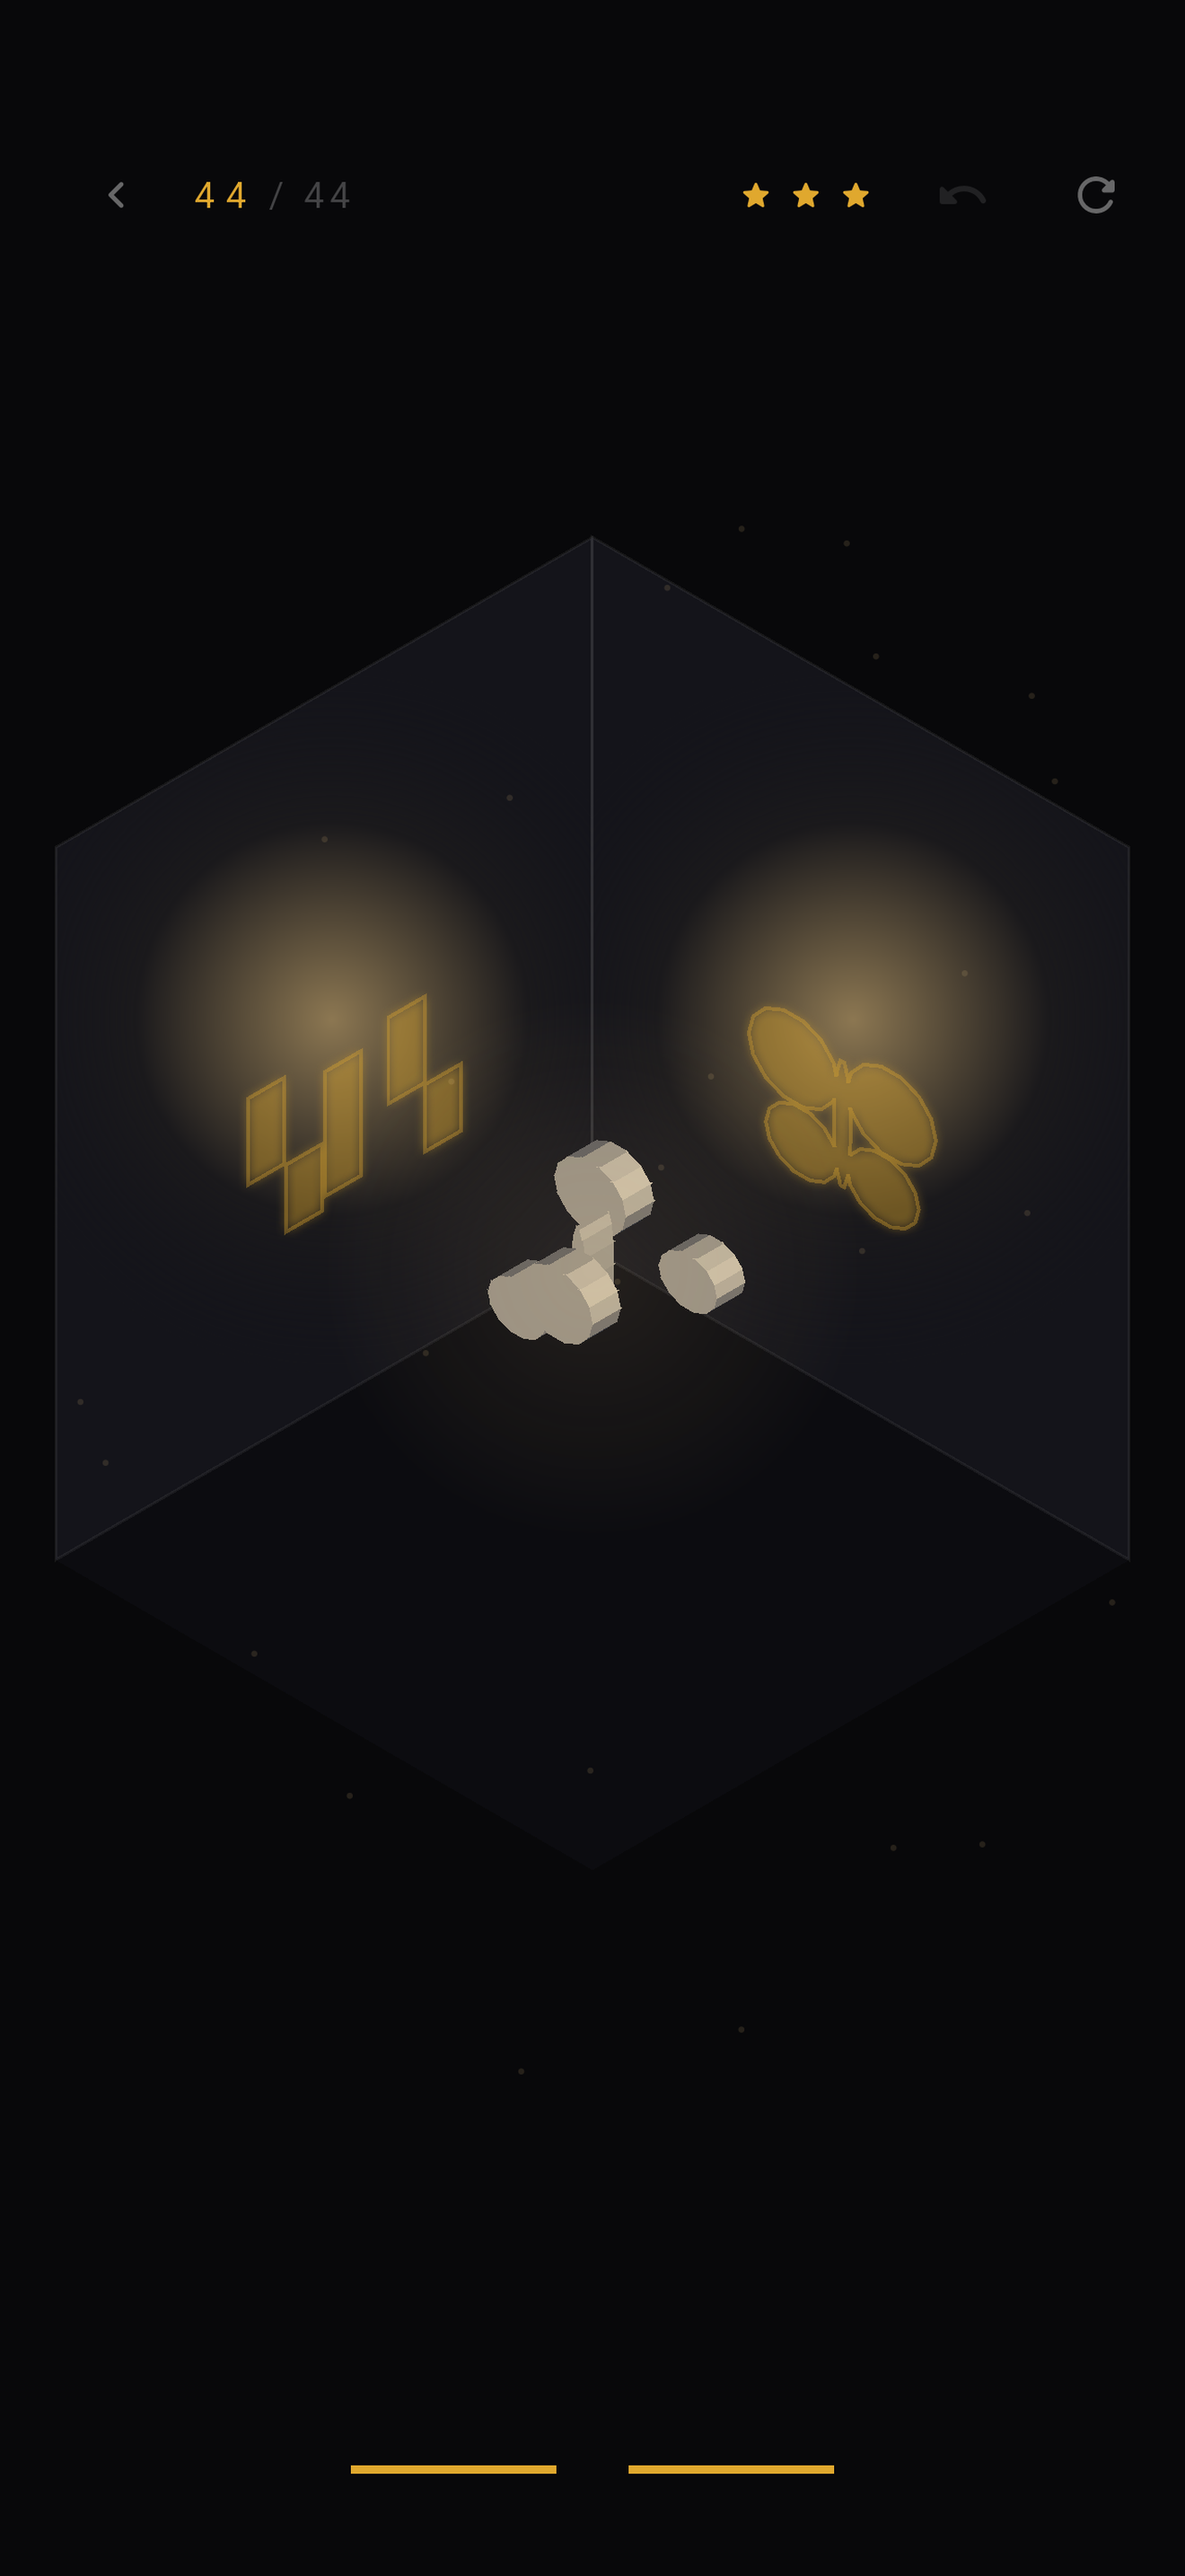
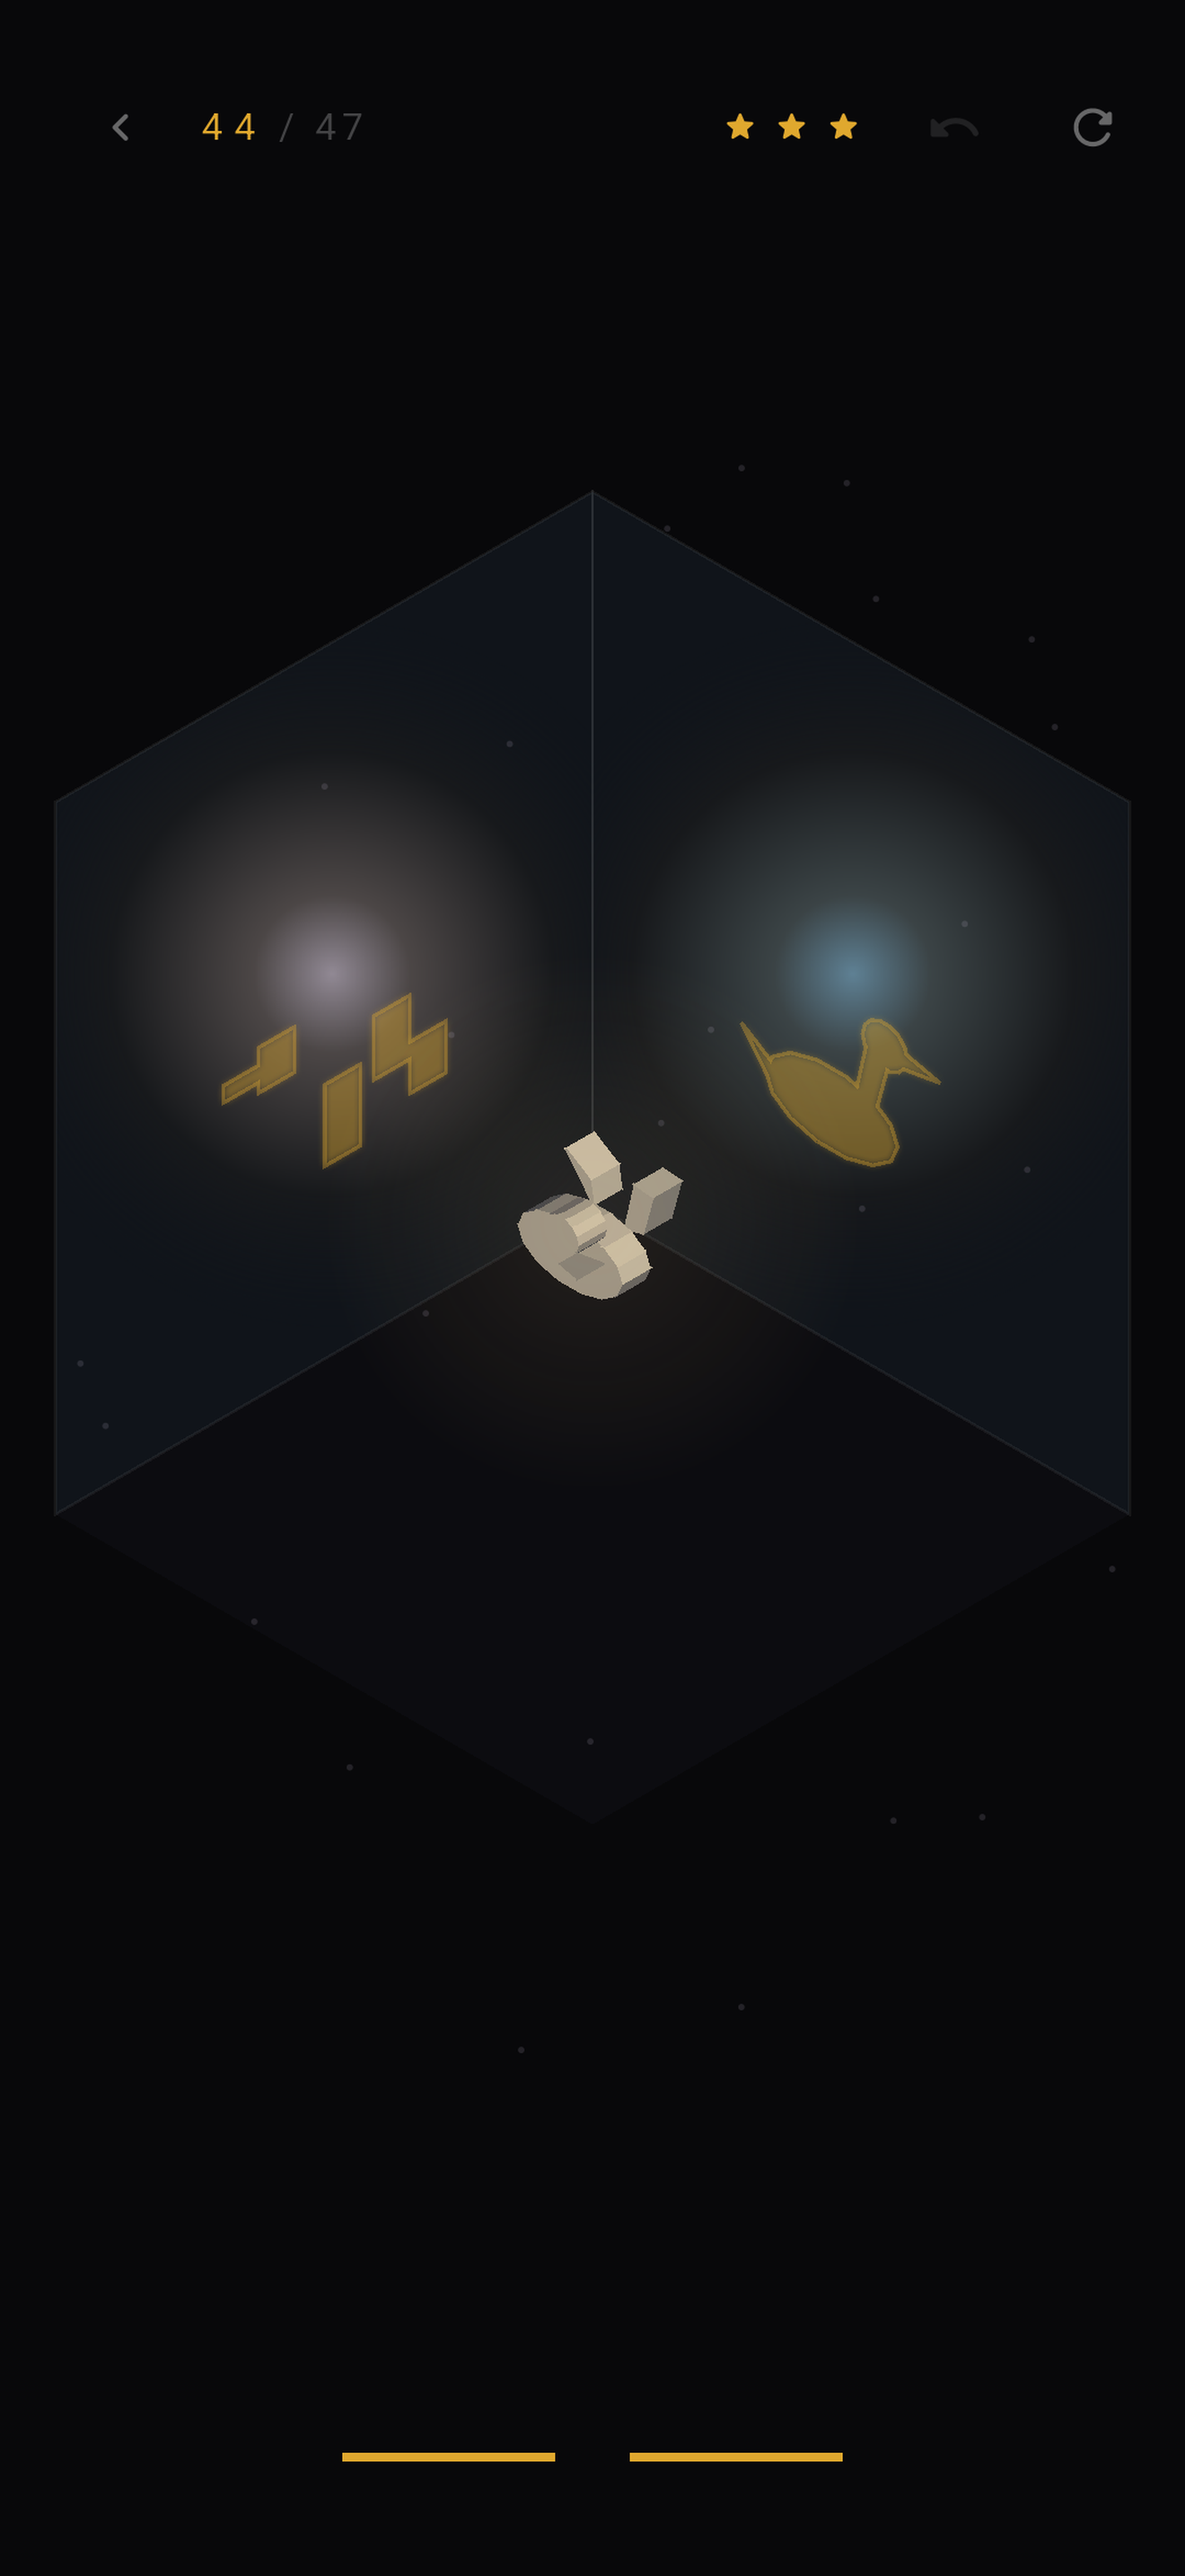
Press kit recaptured, and a thumbnail that shows the current game
The Devpost entry was advertising a build that no longer exists. Its
thumbnail and both gallery images came from the flat-panel UI, before the
corner room — three panels and two percentages. The level counter read 1/36.

Recaptured all six shots through the existing SHOT=true harness rather than
by hand, which is the whole reason that harness exists: shots taken by hand
go stale silently, and these had twice.

make_thumb.py now crops to the room and its HUD instead of showing a whole
phone. A Devpost thumbnail is browsed a few hundred pixels wide, the app's
lower third is deliberately empty, and at that size empty reads as broken.
The two background glows are warm-left and cool-right to match the Ambience
the game actually renders, rather than two arbitrary yellows.

press/raw is replaced, not added alongside. A raw2/ living next to raw/ is
the kind of duplicate that rots — one of them becomes the stale one and
nobody remembers which.

devpost-story.md rewritten against the current build. It claimed 36 levels
across three chapters, and listed as "what's next" three things that have
since shipped: corner geometry and lighting, the map and chapters and stars,
and the RevenueCat unlock. Now 47 rooms, five chapters, endless, the daily,
latching, the deterministic PRNG, and fail-open entitlement. What's next is
the playtest, which is honest — it is the thing actually blocking.

diff --git a/press/make_thumb.py b/press/make_thumb.py
@@ -1,26 +1,40 @@
-"""Devpost thumbnail for In Two Lights — 3:2, dark, two light sources."""
+"""Devpost thumbnail for In Two Lights — 3:2, dark, two light sources.
+
+Run: python press/make_thumb.py press/raw2/01-silhouette.png press/devpost-thumbnail.png
+
+⚠ Feed it a RAW device capture, not a press/devpost/ one — those are padded to
+a fixed store aspect, and padding inside a panel that is itself a crop reads as
+a mistake.
+
+The shot is cropped to the room and its HUD rather than shown as a whole phone.
+A Devpost thumbnail is browsed at a few hundred pixels wide; the app's lower
+third is deliberately empty, and at that size empty space is indistinguishable
+from a broken image. Cropped, the corner fills the panel.
+"""
 import sys
 from PIL import Image, ImageDraw, ImageFont, ImageFilter
 
 W, H = 1500, 1000                      # 3:2
 BG = (10, 10, 12)
 AMBER = (224, 168, 46)
-WARM = (255, 214, 140)
 TEXT = (238, 238, 240)
 MUTED = (140, 140, 148)
 
 F = "C:/Windows/Fonts/"
-title_f = ImageFont.truetype(F + "segoeuil.ttf", 96)
+title_f = ImageFont.truetype(F + "segoeuil.ttf", 82)
 tag_f = ImageFont.truetype(F + "segoeuil.ttf", 34)
 small_f = ImageFont.truetype(F + "segoeui.ttf", 22)
 kick_f = ImageFont.truetype(F + "segoeuisl.ttf", 20)
+stat_f = ImageFont.truetype(F + "segoeuisl.ttf", 21)
 
 img = Image.new("RGB", (W, H), BG)
 
 # --- two light sources, the literal premise of the game ---------------------
+# Warm on the left, cool on the right — matching the per-chapter Ambience the
+# game actually renders, rather than two arbitrary yellows.
 glow = Image.new("RGB", (W, H), BG)
 gd = ImageDraw.Draw(glow)
-for cx, cy, rad, col in ((210, 40, 620, (92, 71, 34)), (1230, -40, 700, (74, 60, 38))):
+for cx, cy, rad, col in ((210, 40, 620, (92, 71, 34)), (1230, -40, 700, (44, 58, 78))):
     for i in range(rad, 0, -8):
         t = 1 - i / rad
         gd.ellipse([cx - i, cy - i, cx + i, cy + i],
@@ -42,30 +56,33 @@ X = 96
 tracked(d, (X, 300), "SHIPATON 2026", kick_f, AMBER, track=3.2)
 tracked(d, (X, 348), "IN TWO LIGHTS", title_f, TEXT, track=5)
 
-d.line([(X, 486), (X + 96, 486)], fill=AMBER, width=3)
+d.line([(X, 470), (X + 96, 470)], fill=AMBER, width=3)
 
 for i, line in enumerate([
-        "Two lights. One form. Two shadows",
-        "that must both be true at once —",
-        "and fixing one always breaks the other.",
+        "One sculpture. Two shadows.",
+        "Both must land at once —",
+        "and fixing one breaks the other.",
 ]):
-    d.text((X, 528 + i * 46), line, font=tag_f, fill=(196, 196, 202))
+    d.text((X, 512 + i * 46), line, font=tag_f, fill=(196, 196, 202))
 
-d.text((X, 700), "A wordless spatial-deduction puzzle.", font=small_f, fill=MUTED)
-d.text((X, 732), "No words. No timer. No hints.", font=small_f, fill=MUTED)
+tracked(d, (X, 684), "47 ROOMS  ·  5 CHAPTERS  ·  ENDLESS", stat_f, AMBER, track=1.6)
+d.text((X, 728), "A wordless spatial-deduction puzzle.", font=small_f, fill=MUTED)
+d.text((X, 760), "No words. No timer. No hints.", font=small_f, fill=MUTED)
 
 # --- right: the actual game ------------------------------------------------
+# 130px of Android status bar off the top; the bottom is cropped to just under
+# the room so the corner, not the empty floor, is what fills the panel.
 shot = Image.open(sys.argv[1]).convert("RGB")
-shot = shot.crop((0, int(shot.height * 0.035), shot.width, shot.height))  # drop status bar
-th = 860
+shot = shot.crop((0, 130, shot.width, int(shot.height * 0.71)))
+th = 840
 tw = int(shot.width * th / shot.height)
 shot = shot.resize((tw, th), Image.LANCZOS)
 
-px, py = W - tw - 130, (H - th) // 2
+px, py = W - tw - 80, (H - th) // 2
 d.rounded_rectangle([px - 14, py - 14, px + tw + 14, py + th + 14],
-                    radius=26, fill=(20, 20, 23))
+                    radius=16, fill=(20, 20, 23))
 img.paste(shot, (px, py))
-d.rounded_rectangle([px - 1, py - 1, px + tw, py + th], radius=6, outline=(58, 58, 64), width=2)
+d.rounded_rectangle([px - 1, py - 1, px + tw, py + th], radius=4, outline=(58, 58, 64), width=2)
 
 img.save(sys.argv[2], quality=95)
-print(f"wrote {sys.argv[2]}  {W}x{H}  ratio {W/H:.3f}")
+print(f"wrote {sys.argv[2]}  {W}x{H}  ratio {W/H:.3f}  panel {tw}x{th} at x={px}")

diff --git a/press/devpost-story.md b/press/devpost-story.md
@@ -10,20 +10,29 @@ That tension is the whole game, and the entire build was a bet on one question: 
 
 ## What it does
 
-An abstract sculpture of hinged low-poly arms hangs in the corner where two perpendicular walls meet, lit from two directions. Each wall shows a target silhouette. You drag to rotate the form and bend it at its joints. The level is solved when **both** cast shadows match their targets at once.
+A sculpture of hinged low-poly arms hangs in the corner where two perpendicular walls meet, lit from two directions. Each wall shows a target silhouette. You drag to rotate the form and bend it at its joints. The room is solved when **both** cast shadows match their targets at once.
 
-No words. No timer. No hints. 36 levels across three chapters, sorted by how many joints the form has.
+No words. No timer. No hints for the first minute.
+
+- **47 rooms across five chapters** — Rotation, The Joint, Two Joints, Forms, Silhouettes. The opening four are hand-authored so a new player's first minutes are designed rather than sampled.
+- **Endless mode** — rooms generated on the device, numbered from 1, running as deep as you want to go. Room 340 is the same room for everyone, so a depth is a claim you can check.
+- **A daily room** — one puzzle a day, the same one for every player.
+- **Stars on precision, not speed.** A timer would turn a contemplative puzzle into a twitch one.
 
 ## How I built it
 
-Flutter 3.44.8 / Dart 3.12.2, no game engine. The geometry is all hand-rolled:
+Flutter 3.44.8 / Dart 3.12.2, no game engine. The geometry is hand-rolled:
 
-- **Projection** — each box's corners are rotated into world space and projected onto two perpendicular planes.
-- **Silhouettes** — a convex hull per box per wall, then every hull is drawn into a single 64×64 occupancy mask, so unions come for free.
-- **Scoring** — intersection-over-union between that mask and the target's, thresholded at 0.92.
-- **Levels** — a generator samples candidate sculptures, rejection-samples the bad ones, and writes out `levels.g.dart`.
+- **Meshes** — every piece is a triangle mesh. Lathed forms, extruded prisms and unions, built by ear clipping. (This replaced an earlier convex-hull approach, which could not represent anything concave — no ducks, no moths.)
+- **Projection** — vertices rotate into world space and project onto two perpendicular planes. Two axis-aligned lights make wall A's shadow `(z,y)` and wall B's `(x,y)`, which is what keeps the two constraints genuinely independent.
+- **Scoring** — intersection-over-union against the target on a 64×64 occupancy raster, thresholded at 0.92.
+- **Latching** — a solve is *entered* at 0.92 but only *given up* below 0.89. Without that gap a finger resting on the glass wanders across the threshold, the chord re-fires and the glow reverses, and the player stops trusting the silhouette they just reasoned out and starts stabilising a number.
+- **Determinism** — endless uses a hand-written splitmix64 PRNG, not `dart:math`. `Random`'s algorithm is not contractual, and rooms are generated at runtime on the player's device; an SDK upgrade could otherwise silently change everyone's room 340.
+- **Generation off the UI thread** — a hinged room costs about a second to generate on a desktop and several times that on a phone, so endless generates in an isolate and prefetches room N+1 while you play room N.
 
-The decision that made everything else cheap: **levels are authored as a solved pose, and the target silhouettes are derived from it.** Every level is therefore solvable by construction. Generating a new one is nearly free, and two tests assert that all 36 score 1.0 at their solution and that none open pre-solved.
+The decision that made everything else cheap: **rooms are authored as a solved pose, and the target silhouettes are derived from it.** Every room is therefore solvable by construction. 94 tests, including ones that assert every sampled endless room scores 1.0 at its solution and none opens pre-solved.
+
+RevenueCat gates a one-time unlock past the free first chapter. The entitlement check **fails open** — if the store can't be reached, the player keeps what they paid for. An outage should never paywall someone who already bought it.
 
 ## Challenges I ran into
 
@@ -42,7 +51,7 @@ Both ranked it backwards. The correlation metric would have thrown out the singl
 
 So I shipped **no difficulty filter at all**. The code is still there, deliberately unused, with a comment explaining why. An unvalidated metric that discards your best work is worse than no metric, and I'd rather carry a known gap than a confident wrong number.
 
-I also dropped a dependency I'd designed around. The original plan used polygon boolean operations for shadow unions. Rasterising to a grid instead removed the dependency entirely, made unions free, and quantises scores at about ±0.01 — far inside the solve threshold.
+That gap got more expensive when I shipped endless mode, which generates from the same unvalidated bands. It is now the thing a real playtest has to settle, and I can't settle it myself: I know the generator, the solution families and the transformations, so my own solve time measures my familiarity rather than the room's difficulty.
 
 ## Accomplishments that I'm proud of
 
@@ -56,10 +65,12 @@ I passed it seven days early, on the hinge level. The answer to the second quest
 
 ## What I learned
 
-That a negative result is worth shipping. Two failed metrics told me more about my own game than a working one would have — mainly that I don't yet know what makes one of these levels hard, and that no amount of arithmetic substitutes for handing it to a person.
+That a negative result is worth shipping. Two failed metrics told me more about my own game than a working one would have — mainly that I don't yet know what makes one of these rooms hard, and that no amount of arithmetic substitutes for handing it to a person.
+
+I also learned to distrust a correction that comes from reasoning when the original reading came from evidence. I talked myself out of a build failure's actual cause once, and the next build proved the evidence right.
 
 ## What's next for In Two Lights
 
-- **Real corner geometry and lighting** — shadow falloff, a spotlight cone, dust in the beam. Right now it's a puzzle; it isn't yet a place.
-- **Progression** — a level map, chapters, and stars awarded on precision rather than speed.
-- **A one-time chapter unlock through RevenueCat**, designed as an in-world transition rather than a modal.
+- **Five naive playtesters**, screen-recorded, with the timestamp marked where they first say *"oh — fixing that one breaks the other."* If that moment lands later than ninety seconds, the opening is wrong and no amount of content further in compensates.
+- **Difficulty ordering rebuilt from what they do**, not from an unvalidated number.
+- **App Store release.** It's on TestFlight now.
